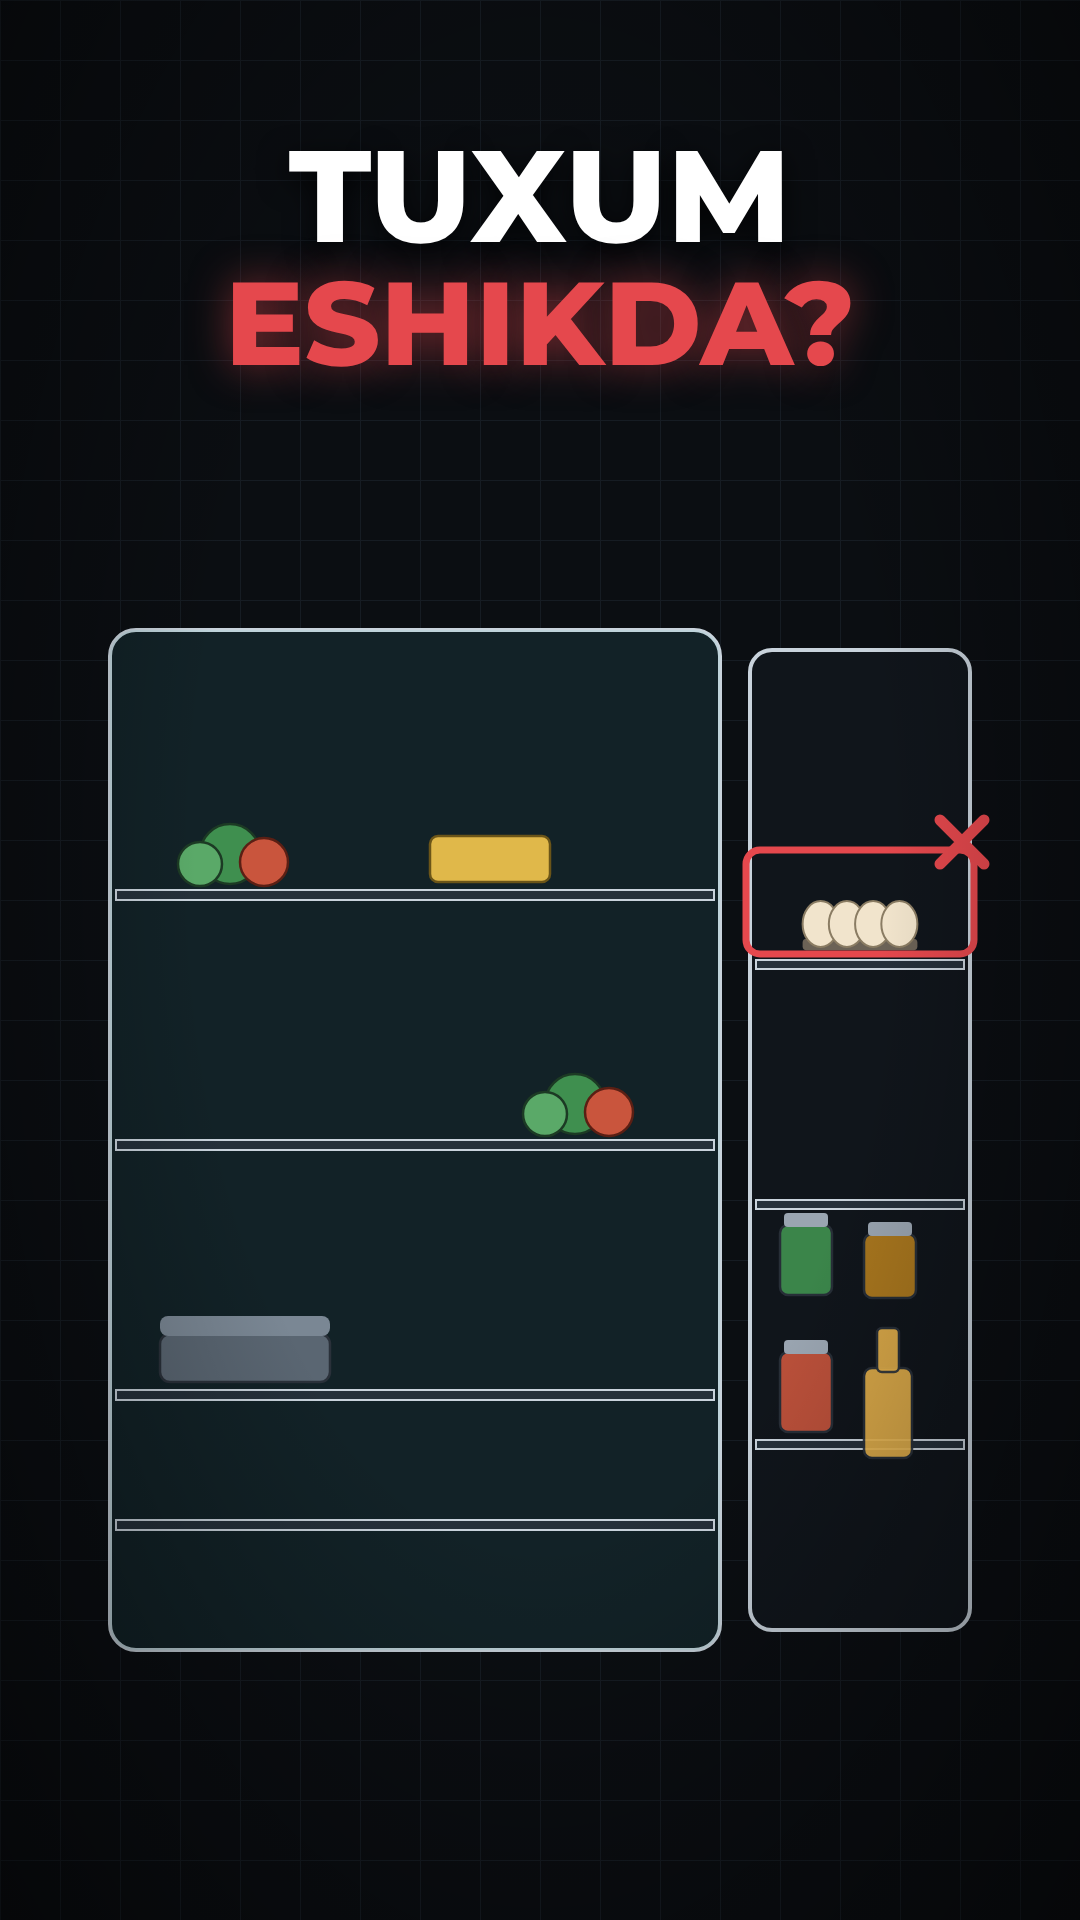
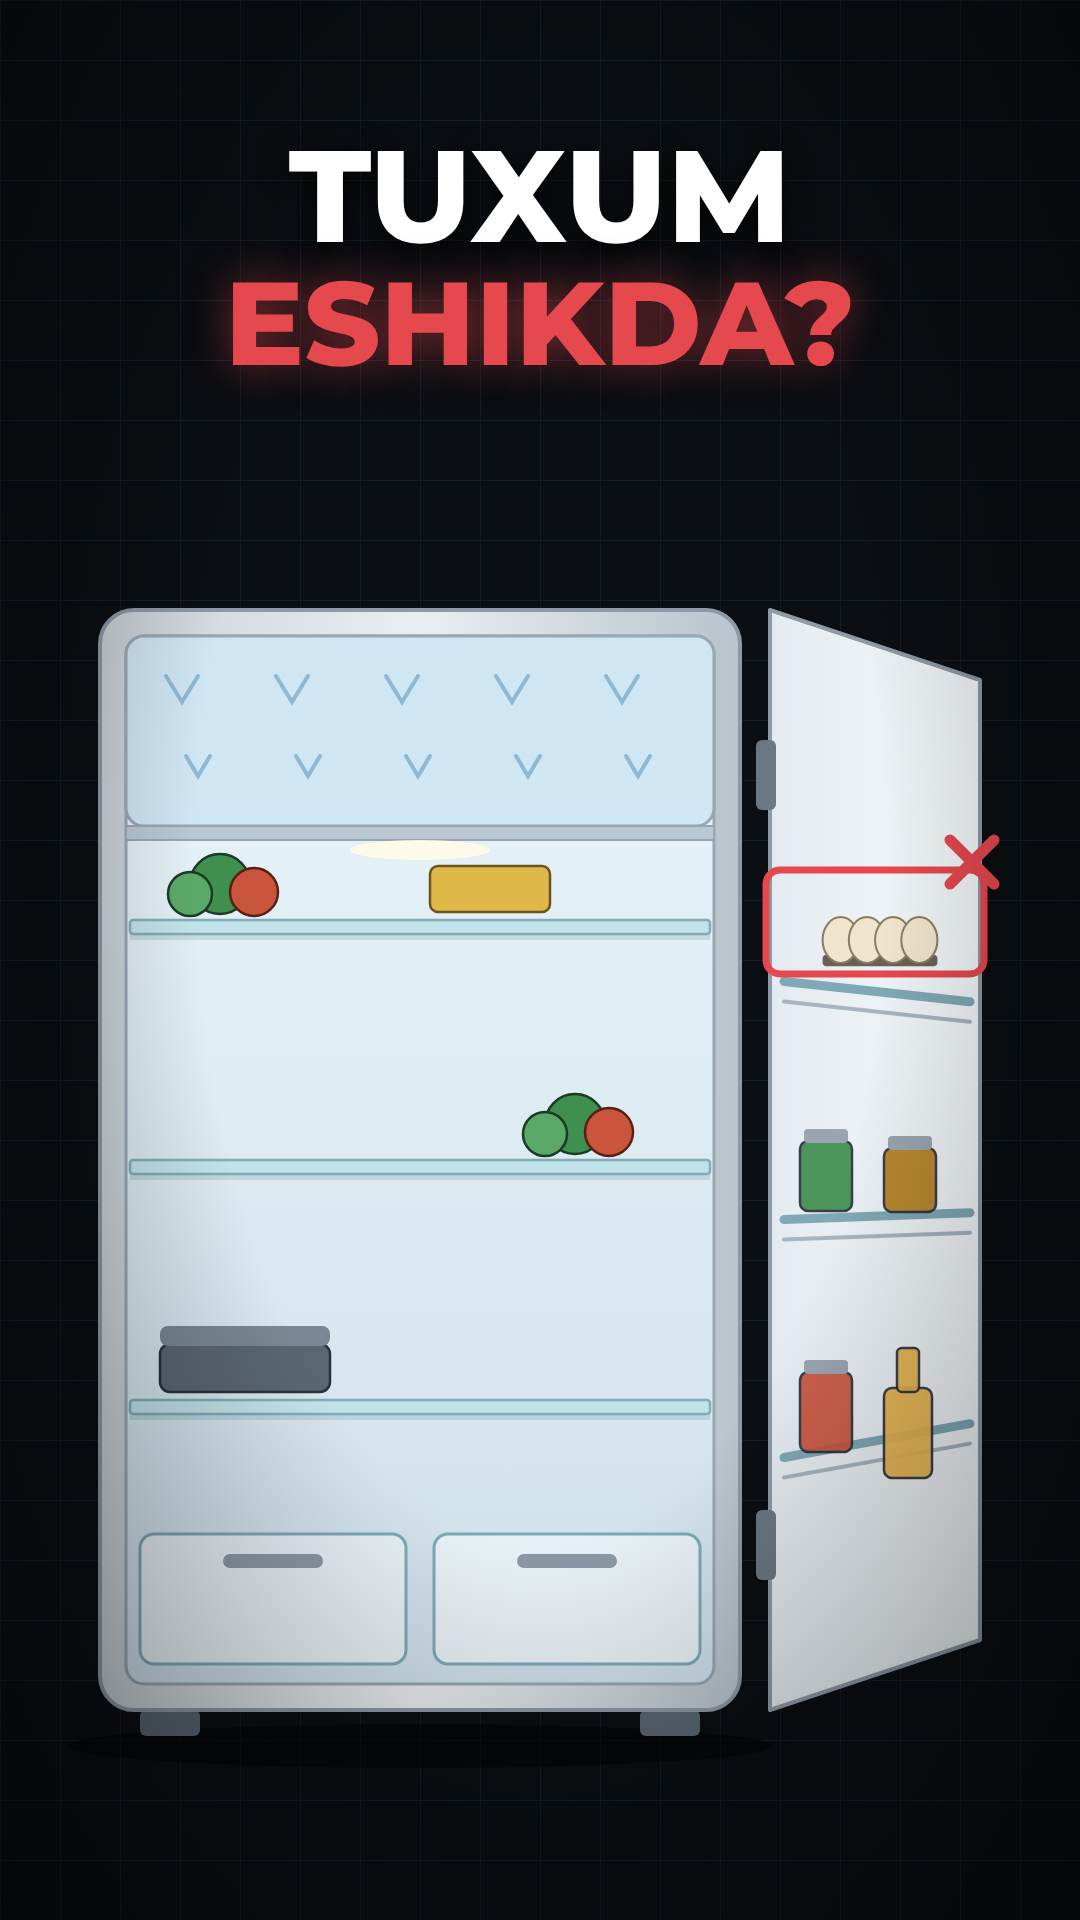
Muzlatkich: новый вид холодильника (корпус, морозилка, стеклянные полки, открытая дверь), график ниже
Claude-Session: https://claude.ai/code/session_016ssCvh2DYWpHaPbbs6q49f

diff --git a/reels/src/Muzlatkich.tsx b/reels/src/Muzlatkich.tsx
@@ -13,9 +13,9 @@ const lerp = (a: number, b: number, u: number) => a + (b - a) * u;
 const ease = (x: number) => x * x * (3 - 2 * x);
 
 // геометрия: корпус слева, дверная полка справа
-const BX = 110, BY = 430, BW = 610, BH = 1020, DX = 750, DW = 220;
-const SHELF = [690, 940, 1190];       // полки корпуса
-const DSHELF = [760, 1000, 1240];    // полки двери
+const BX = 100, BY = 410, BW = 640, BH = 1100, DX = 770, DW = 210;
+const SHELF = [720, 960, 1200];       // полки корпуса
+const DSHELF = [780, 1020, 1260];    // полки двери
 
 const Egg: React.FC<{x: number; y: number; s?: number}> = ({x, y, s = 1}) => <ellipse cx={x} cy={y} rx={22 * s} ry={28 * s} fill={EGG} stroke="#8a7c63" strokeWidth={2} />;
 const Eggs: React.FC<{x: number; y: number; s?: number; glow?: number}> = ({x, y, s = 1, glow = 0}) => (
@@ -46,25 +46,49 @@ const Meat: React.FC<{x: number; y: number}> = ({x, y}) => (
 const Fridge: React.FC<{t: number}> = ({t}) => {
   const warm = tm(t, 6.0, 6.8) * (1 - tm(t, 9.0, 9.6)) + 0.35 * tm(t, 9.3, 9.8) * (1 - tm(t, 11.5, 12.0));
   const arrows = tm(t, 9.3, 9.7) * (1 - tm(t, 11.2, 11.8));
+  const cold = tm(t, 6.0, 7.0) * (1 - tm(t, 9.0, 9.6));
+  const CX = BX + 26, CY = BY + 26, CW = BW - 52, CH = BH - 52; // внутренняя полость
+  const doorPts = `${DX},${BY} ${DX + DW},${BY + 70} ${DX + DW},${BY + BH - 70} ${DX},${BY + BH}`;
+  const dY = (y: number, x: number) => y + (x - DX) / DW * 70 * (1 - 2 * (y - BY) / BH); // наклон полки двери
   return (
     <g>
+      <defs>
+        <linearGradient id="cav" x1="0" x2="0" y1="0" y2="1"><stop offset="0" stopColor="#f7fbfd" /><stop offset="1" stopColor="#dbe6ed" /></linearGradient>
+        <linearGradient id="shell" x1="0" x2="1" y1="0" y2="0"><stop offset="0" stopColor="#c9d1d8" /><stop offset="0.5" stopColor="#e9eef2" /><stop offset="1" stopColor="#b9c3cc" /></linearGradient>
+        <linearGradient id="doorin" x1="0" x2="1" y1="0" y2="0"><stop offset="0" stopColor="#e4ebf0" /><stop offset="1" stopColor="#f4f8fa" /></linearGradient>
+      </defs>
+      {/* ножки и тень */}
+      <ellipse cx={BX + BW / 2} cy={BY + BH + 36} rx={BW * 0.55} ry={22} fill="#000" opacity={0.5} />
+      <rect x={BX + 40} y={BY + BH} width={60} height={26} rx={6} fill="#5a6672" /><rect x={BX + BW - 100} y={BY + BH} width={60} height={26} rx={6} fill="#5a6672" />
       {/* корпус */}
-      <rect x={BX} y={BY} width={BW} height={BH} rx={26} fill="#10151b" stroke={LINE} strokeWidth={4} />
-      <rect x={BX} y={BY} width={BW} height={BH} rx={26} fill={TEAL} opacity={0.07 + 0.1 * tm(t, 6.0, 7.0) * (1 - tm(t, 9.0, 9.6))} />
-      {SHELF.map((y, i) => <rect key={i} x={BX + 6} y={y} width={BW - 12} height={10} fill="#25303a" stroke={LINE} strokeWidth={2} />)}
-      <rect x={BX + 6} y={BY + BH - 130} width={BW - 12} height={10} fill="#25303a" stroke={LINE} strokeWidth={2} />
-      {/* дверь */}
-      <rect x={DX} y={BY + 20} width={DW} height={BH - 40} rx={22} fill="#10151b" stroke={LINE} strokeWidth={4} />
-      <rect x={DX} y={BY + 20} width={DW} height={BH - 40} rx={22} fill={ORANGE} opacity={warm * 0.34} />
-      {DSHELF.map((y, i) => <rect key={i} x={DX + 6} y={y} width={DW - 12} height={9} fill="#25303a" stroke={LINE} strokeWidth={2} />)}
+      <rect x={BX} y={BY} width={BW} height={BH} rx={34} fill="url(#shell)" stroke="#8d99a6" strokeWidth={4} />
+      <rect x={CX} y={CY} width={CW} height={CH} rx={18} fill="url(#cav)" stroke="#9aa6b2" strokeWidth={3} />
+      <rect x={CX} y={CY} width={CW} height={CH} rx={18} fill="#4aa8d8" opacity={0.08 + 0.2 * cold} />
+      {/* морозилка сверху */}
+      <rect x={CX} y={CY} width={CW} height={190} rx={18} fill="#cfe6f3" stroke="#9aa6b2" strokeWidth={3} />
+      {[0, 1, 2, 3, 4].map((i) => <path key={i} d={`M${CX + 40 + i * 110} ${CY + 40} l16 26 l16 -26 M${CX + 60 + i * 110} ${CY + 120} l12 20 l12 -20`} stroke="#8fb9d3" strokeWidth={4} fill="none" strokeLinecap="round" />)}
+      <rect x={CX} y={CY + 190} width={CW} height={14} fill="#b9c8d3" stroke="#9aa6b2" strokeWidth={2} />
+      {/* лампа */}
+      <ellipse cx={CX + CW / 2} cy={CY + 214} rx={70} ry={10} fill="#fffbe8" opacity={0.9} />
+      {/* стеклянные полки */}
+      {SHELF.map((y, i) => <g key={i}><rect x={CX + 4} y={y} width={CW - 8} height={14} rx={3} fill="#bfe3ea" stroke="#7fa9b6" strokeWidth={2.5} opacity={0.95} /><rect x={CX + 4} y={y + 14} width={CW - 8} height={6} fill="#7fa9b6" opacity={0.3} /></g>)}
+      {/* ящики для овощей внизу */}
+      {[0, 1].map((i) => <g key={i}><rect x={CX + 14 + i * (CW / 2)} y={CY + CH - 150} width={CW / 2 - 28} height={130} rx={14} fill="#e8f1f6" stroke="#7fa9b6" strokeWidth={3} /><rect x={CX + 14 + i * (CW / 2) + (CW / 2 - 28) / 2 - 50} y={CY + CH - 150 + 20} width={100} height={14} rx={7} fill="#8d99a6" /></g>)}
+      {/* дверь открыта */}
+      <polygon points={doorPts} fill="url(#doorin)" stroke="#8d99a6" strokeWidth={4} strokeLinejoin="round" />
+      <polygon points={doorPts} fill={ORANGE} opacity={warm * 0.4} />
+      {DSHELF.map((y, i) => <g key={i}><line x1={DX + 14} y1={dY(y, DX + 14)} x2={DX + DW - 10} y2={dY(y, DX + DW - 10)} stroke="#7fa9b6" strokeWidth={9} strokeLinecap="round" /><line x1={DX + 14} y1={dY(y, DX + 14) + 20} x2={DX + DW - 10} y2={dY(y, DX + DW - 10) + 20} stroke="#a6b5c0" strokeWidth={4} strokeLinecap="round" /></g>)}
+      {/* петли */}
+      <rect x={DX - 14} y={BY + 130} width={20} height={70} rx={6} fill="#6b7783" /><rect x={DX - 14} y={BY + BH - 200} width={20} height={70} rx={6} fill="#6b7783" />
       {/* постоянные продукты */}
-      <Veg x={230} y={SHELF[0] - 36} /><Veg x={575} y={SHELF[1] - 36} />
+      <Veg x={220} y={SHELF[0] - 36} />
       <rect x={430} y={SHELF[0] - 54} width={120} height={46} rx={8} fill="#e0b84a" stroke="#6b5518" strokeWidth={2.5} />
+      <Veg x={575} y={SHELF[1] - 36} />
       <rect x={160} y={SHELF[2] - 56} width={170} height={48} rx={10} fill="#5a6672" stroke="#2a313a" strokeWidth={2.5} /><rect x={160} y={SHELF[2] - 74} width={170} height={20} rx={8} fill="#7a8794" />
       <Jar x={DX + 56} y={DSHELF[2] - 48} c="#c9553d" /><Bottle x={DX + 138} y={DSHELF[2] - 52} c="#e9b44c" />
-      <Jar x={DX + 56} y={DSHELF[0] + 300} c="#3f8f4f" h={70} /><Jar x={DX + 140} y={DSHELF[0] + 306} c="#b57f1f" h={64} />
+      <Jar x={DX + 56} y={DSHELF[1] - 44} c="#3f8f4f" h={70} /><Jar x={DX + 140} y={DSHELF[1] - 40} c="#b57f1f" h={64} />
       {/* стрелки тёплого воздуха */}
-      {arrows > 0.01 && [0, 1, 2].map((i) => { const u = ((t * 0.9 + i / 3) % 1), x = lerp(DX - 10, BX + 300, u), y = 800 + i * 200 + Math.sin(u * 6 + i) * 18; return <g key={i} opacity={arrows * (1 - u * 0.6)}><path d={`M${x} ${y} l-46 -16 l0 32 Z`} fill={ORANGE} /><line x1={x} y1={y} x2={x + 60} y2={y} stroke={ORANGE} strokeWidth={8} strokeLinecap="round" /></g>; })}
+      {arrows > 0.01 && [0, 1, 2].map((i) => { const u = ((t * 0.9 + i / 3) % 1), x = lerp(DX - 10, BX + 300, u), y = 820 + i * 200 + Math.sin(u * 6 + i) * 18; return <g key={i} opacity={arrows * (1 - u * 0.6)}><path d={`M${x} ${y} l-46 -16 l0 32 Z`} fill={ORANGE} /><line x1={x} y1={y} x2={x + 60} y2={y} stroke={ORANGE} strokeWidth={8} strokeLinecap="round" /></g>; })}
     </g>
   );
 };
@@ -86,7 +110,7 @@ const Movers: React.FC<{t: number}> = ({t}) => {
   return (
     <g>
       {/* яйца в двери (плохо) или на полке (хорошо) */}
-      {t < 4.5 && <g><Eggs x={wx} y={DSHELF[0] - 36} s={0.82} />{eggBad > 0 && <g opacity={eggBad}><rect x={DX - 4} y={DSHELF[0] - 110} width={DW + 8} height={104} rx={14} fill="none" stroke={RED} strokeWidth={6} /><path d={`M${DX + DW - 24} ${DSHELF[0] - 134} l36 36 M${DX + DW + 12} ${DSHELF[0] - 134} l-36 36`} stroke={RED} strokeWidth={9} strokeLinecap="round" /></g>}</g>}
+      {t < 4.5 && <g><Eggs x={wx} y={DSHELF[0] - 40} s={0.82} />{eggBad > 0 && <g opacity={eggBad}><rect x={DX - 4} y={DSHELF[0] - 110} width={DW + 8} height={104} rx={14} fill="none" stroke={RED} strokeWidth={6} /><path d={`M${DX + DW - 24} ${DSHELF[0] - 134} l36 36 M${DX + DW + 12} ${DSHELF[0] - 134} l-36 36`} stroke={RED} strokeWidth={9} strokeLinecap="round" /></g>}</g>}
       {t >= 4.5 && t < 5.5 && <Eggs x={ex} y={ey} s={0.9} />}
       {t >= 5.5 && <Eggs x={230} y={SHELF[1] - 36} s={0.9} glow={eggGood * (1 - tm(t, 8.4, 9.0)) + (t > 26 ? tm(t, 26.0, 26.6) : 0)} />}
       {/* молоко */}
@@ -105,7 +129,7 @@ const Movers: React.FC<{t: number}> = ({t}) => {
 /** график температуры с пиком при открытии двери (9.3-11.7) */
 const Chart: React.FC<{t: number}> = ({t}) => {
   const a = tm(t, 8.6, 9.2) * (1 - tm(t, 12.6, 13.2)); if (a <= 0) return null;
-  const X0 = 130, X1 = 950, Y0 = 1750, Y1 = 1560, n = 60, draw = tm(t, 9.0, 12.4);
+  const X0 = 130, X1 = 950, Y0 = 1840, Y1 = 1660, n = 60, draw = tm(t, 9.0, 12.4);
   const f = (u: number) => { const tt = 9.0 + u * 3.4; return Y0 - (Y0 - Y1) * 0.18 - (Y0 - Y1) * 0.62 * Math.max(0, Math.exp(-Math.pow((tt - 9.9) / 0.9, 2) * (tt < 9.9 ? 6 : 0.9))) * (tt >= 9.3 ? 1 : 0); };
   let d = ''; for (let i = 0; i <= Math.floor(n * draw); i++) { const u = i / n; d += `${i ? 'L' : 'M'}${X0 + (X1 - X0) * u} ${f(u)} `; }
   return (
@@ -187,7 +211,7 @@ export const MuzCover: React.FC = () => {
         <defs><pattern id="gr2" width="60" height="60" patternUnits="userSpaceOnUse"><path d="M60 0H0V60" fill="none" stroke="#161c23" strokeWidth={2} /></pattern></defs>
         <rect width={W} height={H} fill="url(#gr2)" />
         <g transform="translate(0 200)"><Fridge t={0} />
-          <g><Eggs x={DX + 110} y={DSHELF[0] - 36} s={0.82} /><rect x={DX - 4} y={DSHELF[0] - 110} width={DW + 8} height={104} rx={14} fill="none" stroke={RED} strokeWidth={7} /><path d={`M${DX + DW - 30} ${DSHELF[0] - 140} l44 44 M${DX + DW + 14} ${DSHELF[0] - 140} l-44 44`} stroke={RED} strokeWidth={11} strokeLinecap="round" /></g>
+          <g><Eggs x={DX + 110} y={DSHELF[0] - 40} s={0.82} /><rect x={DX - 4} y={DSHELF[0] - 110} width={DW + 8} height={104} rx={14} fill="none" stroke={RED} strokeWidth={7} /><path d={`M${DX + DW - 30} ${DSHELF[0] - 140} l44 44 M${DX + DW + 14} ${DSHELF[0] - 140} l-44 44`} stroke={RED} strokeWidth={11} strokeLinecap="round" /></g>
         </g>
       </svg>
       <Vignette strength={0.5} />
